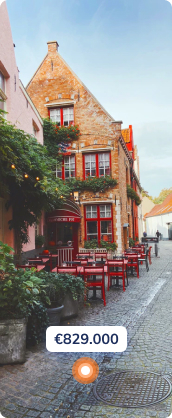
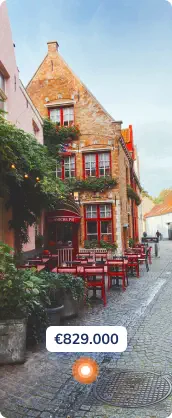
fix: update sizes images main page, add h1, add preloaders

diff --git a/containers/Header/index.tsx b/containers/Header/index.tsx
@@ -17,6 +17,25 @@ import CheckedIcon from '../../assets/images/valid-blue.svg';
 import CurrentStepIcon from '../../assets/images/header-step-current.svg';
 import SuccessStepIcon from '../../assets/images/header-step-success.svg';
 
+//preload main page images
+import FirstSlide from '../../assets/images/main-page/slider/first-slide.webp';
+import FirstSlideMobile from '../../assets/images/main-page/slider/first-slide-mobile.webp';
+import SecondSlide from '../../assets/images/main-page/slider/second-slide.webp';
+import SecondSlideMobile from '../../assets/images/main-page/slider/second-slide-mobile.webp';
+import ThirdSlide from '../../assets/images/main-page/slider/third-slide.webp';
+import ThirdSlideMobile from '../../assets/images/main-page/slider/third-slide-mobile.webp';
+
+import FirstImage from '../../assets/images/main-page/info-block/first-image.webp';
+import FirstImageMobile from '../../assets/images/main-page/info-block/first-mobile.webp';
+import SecondImage from '../../assets/images/main-page/info-block/second-image.webp';
+import SecondImageMobile from '../../assets/images/main-page/info-block/second-mobile.webp';
+import ThirdImage from '../../assets/images/main-page/info-block/third-image.webp';
+import ThirdImageMobile from '../../assets/images/main-page/info-block/third-mobile.webp';
+import FourthImage from '../../assets/images/main-page/info-block/fourth-image.webp';
+import FifthImage from '../../assets/images/main-page/info-block/fifth-image.webp';
+import MapImage from '../../assets/images/main-page/info-block/user-map.webp';
+import MapImageMobile from '../../assets/images/main-page/info-block/user-map-mobile.webp';
+
 import { NavDropdown, Image, Button } from 'react-bootstrap';
 
 import { RootState } from '../../types/state';
@@ -35,7 +54,7 @@ const langList = [
   },
 ];
 
-const HeaderContainer = ({title}: { title: string }) => {
+const HeaderContainer = ({title, mainPage}: { title: string, mainPage?: boolean }) => {
   const router = useRouter();
 
   const {locale} = router;
@@ -86,6 +105,34 @@ const HeaderContainer = ({title}: { title: string }) => {
         <link rel="icon" type="image/png" sizes="16x16" href={ '/favicon-16x16.png' }/>
         <link rel="manifest" href={ '/site.webmanifest' }/>
         <link rel="mask-icon" href={ '/safari-pinned-tab.svg' } color="#3871ef"/>
+        {
+          mainPage &&
+          <>
+            {
+              isMobile ?
+                <>
+                  <link rel='preload' as="image" href={ FirstSlideMobile }/>
+                  <link rel='preload' as="image" href={ SecondSlideMobile }/>
+                  <link rel='preload' as="image" href={ ThirdSlideMobile }/>
+                  <link rel='preload' as="image" href={ FirstImageMobile }/>
+                  <link rel='preload' as="image" href={ SecondImageMobile }/>
+                  <link rel='preload' as="image" href={ ThirdImageMobile }/>
+                  <link rel='preload' as="image" href={ MapImageMobile }/>
+                </> :
+                <>
+                  <link rel='preload' as="image" href={ FirstSlide }/>
+                  <link rel='preload' as="image" href={ SecondSlide }/>
+                  <link rel='preload' as="image" href={ ThirdSlide }/>
+                  <link rel='preload' as="image" href={ FirstImage }/>
+                  <link rel='preload' as="image" href={ SecondImage }/>
+                  <link rel='preload' as="image" href={ ThirdImage }/>
+                  <link rel='preload' as="image" href={ FourthImage }/>
+                  <link rel='preload' as="image" href={ FifthImage }/>
+                  <link rel='preload' as="image" href={ MapImage }/>
+                </>
+            }
+          </>
+        }
         <meta name="robots" content="noindex, nofollow"/>
         <meta name="apple-mobile-web-app-title" content="BelgiumImmo"/>
         <meta name="application-name" content="BelgiumImmo"/>
@@ -98,7 +145,7 @@ const HeaderContainer = ({title}: { title: string }) => {
         />
         <script
           data-cookieconsent='ignore'
-          dangerouslySetInnerHTML={{
+          dangerouslySetInnerHTML={ {
             __html: `window.dataLayer = window.dataLayer || [];
                                             function gtag() {
                                                 dataLayer.push(arguments)
@@ -108,12 +155,12 @@ const HeaderContainer = ({title}: { title: string }) => {
                                                 analytics_storage: "denied",
                                                 wait_for_update: 500,
                                             });
-                                            gtag("set", "ads_data_redaction", true);`
-          }}
+                                            gtag("set", "ads_data_redaction", true);`,
+          } }
         />
       </Head>
       <div className='Header d-flex justify-content-between align-items-center'>
-        <Image onClick={() => goToMainPage()} className={ `logo ${ auth ? 'ml-67' : '' }` } src={ Logo } alt='Logo'/>
+        <Image onClick={ () => goToMainPage() } className={ `logo ${ auth ? 'ml-67' : '' }` } src={ Logo } alt='Logo'/>
         {
           mainBlocks && stepBlock.step <= 3 &&
           <div className='step-info'>
@@ -243,7 +290,7 @@ const HeaderContainer = ({title}: { title: string }) => {
               <span onClick={ openSwitcherBlock }>{ locale }</span>
               {
                 openLangList &&
-                <div className={ `lang-list ${!auth ? 'p-right' : ''}` }>
+                <div className={ `lang-list ${ !auth ? 'p-right' : '' }` }>
                   {
                     langList.map((lang, index) =>
                       <span
@@ -263,6 +310,5 @@ const HeaderContainer = ({title}: { title: string }) => {
     </>
   );
 };
-
 
 export default HeaderContainer;

diff --git a/styles/pages/main.scss b/styles/pages/main.scss
@@ -33,12 +33,13 @@
         display: none;
       }
 
-      h2 {
+      h1 {
         color: var(--colorBlack);
         font-family: var(--fontNunitoBold);
+        font-size: 36px;
+        line-height: 105%;
         max-width: 360px;
         margin-bottom: 20px;
-        width: 90%;
         align-self: baseline;
       }
 
@@ -61,6 +62,7 @@
 
     img {
       width: 100%;
+      height: 717px;
       border-radius: 10px;
     }
   }
@@ -74,6 +76,16 @@
 
     &__middle {
       margin-top: 120px;
+    }
+
+    .map-image {
+      width: 536px;
+      height: 438px;
+    }
+
+    .logo-gray {
+      width: 211px;
+      height: 33px;
     }
 
     &__bottom {
@@ -1177,6 +1189,7 @@
       img {
         border-radius: unset;
         width: 100%;
+        height: 330px;
       }
 
       &__popup {
@@ -1185,7 +1198,7 @@
         padding: 30px;
         width: 343px;
 
-        h2 {
+        h1 {
           font-size: 24px;
           line-height: 33px;
           text-align: center;
@@ -1196,6 +1209,31 @@
 
     .info-block {
       margin-top: 257px;
+
+      .first-image-mobile {
+        width: 108px;
+        height: 213px;
+      }
+
+      .second-image-mobile {
+        width: 108px;
+        height: 245px;
+      }
+
+      .third-image-mobile {
+        width: 108px;
+        height: 213px;
+      }
+
+      .map-image {
+        width: 343px;
+        height: 280px;
+      }
+
+      .logo-gray {
+        width: 150px;
+        height: 24px;
+      }
 
       h4 {
         font-size: 20px;

diff --git a/pages/main/InfoBlock/index.tsx b/pages/main/InfoBlock/index.tsx
@@ -44,9 +44,9 @@ const InfoBlock = () => {
               isMobile
                 ?
                 <>
-                  <img src={ FirstImageMobile } alt="FirstImageMobile"/>
-                  <img className='mt-30px' src={ SecondImageMobile } alt="SecondImageMobile"/>
-                  <img src={ ThirdImageMobile } alt="ThirdImageMobile"/>
+                  <img className='first-image-mobile' src={ FirstImageMobile } alt="FirstImageMobile"/>
+                  <img className='mt-30px second-image-mobile' src={ SecondImageMobile } alt="SecondImageMobile"/>
+                  <img className='third-image-mobile' src={ ThirdImageMobile } alt="ThirdImageMobile"/>
                 </>
                 :
                 <>
@@ -70,7 +70,7 @@ const InfoBlock = () => {
       </div>
       <div className="info-block__middle d-flex justify-content-between">
         <div className="left-block w-55">
-          <img src={ isMobile ? MapImageMobile : MapImage } alt="MapImage"/>
+          <img className='map-image' src={ isMobile ? MapImageMobile : MapImage } alt="MapImage"/>
         </div>
         <div className="right-block">
           <h4>{t('title.bottom-block')}</h4>
@@ -87,7 +87,7 @@ const InfoBlock = () => {
         <p>
           {t('desc.mission-block')}
         </p>
-        <img src={ LogoGray } alt="LogoGray"/>
+        <img className='logo-gray' src={ LogoGray } alt="LogoGray"/>
       </div>
     </div>
   );

diff --git a/pages/main/ImagesBlock/index.tsx b/pages/main/ImagesBlock/index.tsx
@@ -80,7 +80,7 @@ const ImagesBlock = () => {
         </Carousel.Item>
       </Carousel>
       <div className="image-carousel__popup">
-        <h2>{ t('title.image-block') }</h2>
+        <h1>{ t('title.image-block') }</h1>
         <div className='w-100'>
           {
             !window.sessionStorage.getItem('modify') &&

diff --git a/pages/index.tsx b/pages/index.tsx
@@ -23,7 +23,7 @@ const MainPage = () => {
 
   return (
     <>
-      <HeaderContainer title={t('title')} />
+      <HeaderContainer mainPage title={t('title')} />
       <MainPageComponent/>
     </>
   )
